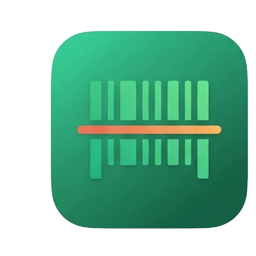
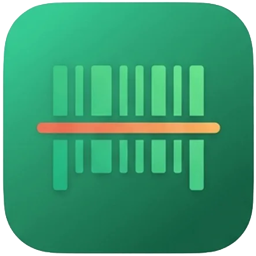
Oprava čtvercového obrysu a zpoždění u aktivní ikonky v liště
Těsný výřez dlaždiček bez zbytků bílého pozadí, CSS zaoblení rohů,
box-shadow místo pomalého drop-shadow filtru, rychlejší přechod.

diff --git a/src/components/TabBar.tsx b/src/components/TabBar.tsx
@@ -63,11 +63,11 @@ export function TabBar() {
                   height={size}
                   draggable={false}
                   style={{
-                    filter: active || isCenter
-                      ? "drop-shadow(0 5px 14px rgba(76,175,130,0.5))"
-                      : "grayscale(1) opacity(0.5)",
+                    borderRadius: "24%",
+                    filter: active || isCenter ? "none" : "grayscale(1) opacity(0.5)",
+                    boxShadow: active || isCenter ? "0 5px 14px rgba(76,175,130,0.45)" : "none",
                     transform: active ? "translateY(-3px) scale(1.05)" : "none",
-                    transition: "filter 0.2s ease, transform 0.2s ease",
+                    transition: "filter 0.15s ease, transform 0.15s ease, box-shadow 0.15s ease",
                   }}
                 />
                 {badge && (
